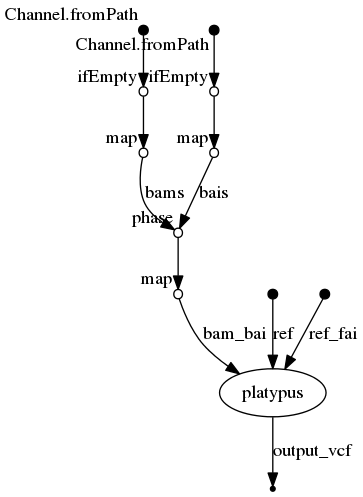
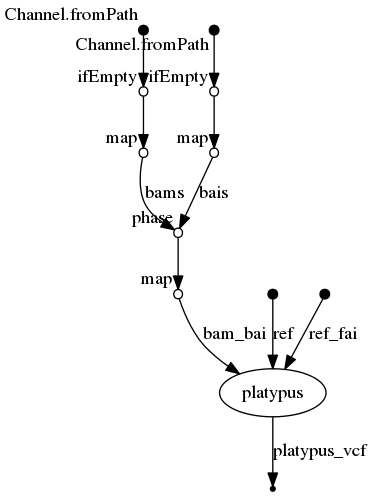
Generated DAG [skip ci]

Changed region(s): [[0.0303, 0.0, 1.0, 0.996]]

diff --git a/dag.html b/dag.html
@@ -133,7 +133,7 @@ edges: [
 { data: { source: 'p7', target: 'p10', label: 'bam_bai' } },
 { data: { source: 'p8', target: 'p10', label: 'ref' } },
 { data: { source: 'p9', target: 'p10', label: 'ref_fai' } },
-{ data: { source: 'p10', target: 'p11', label: 'output_vcf' } },
+{ data: { source: 'p10', target: 'p11', label: 'platypus_vcf' } },
 ],
 },
 
